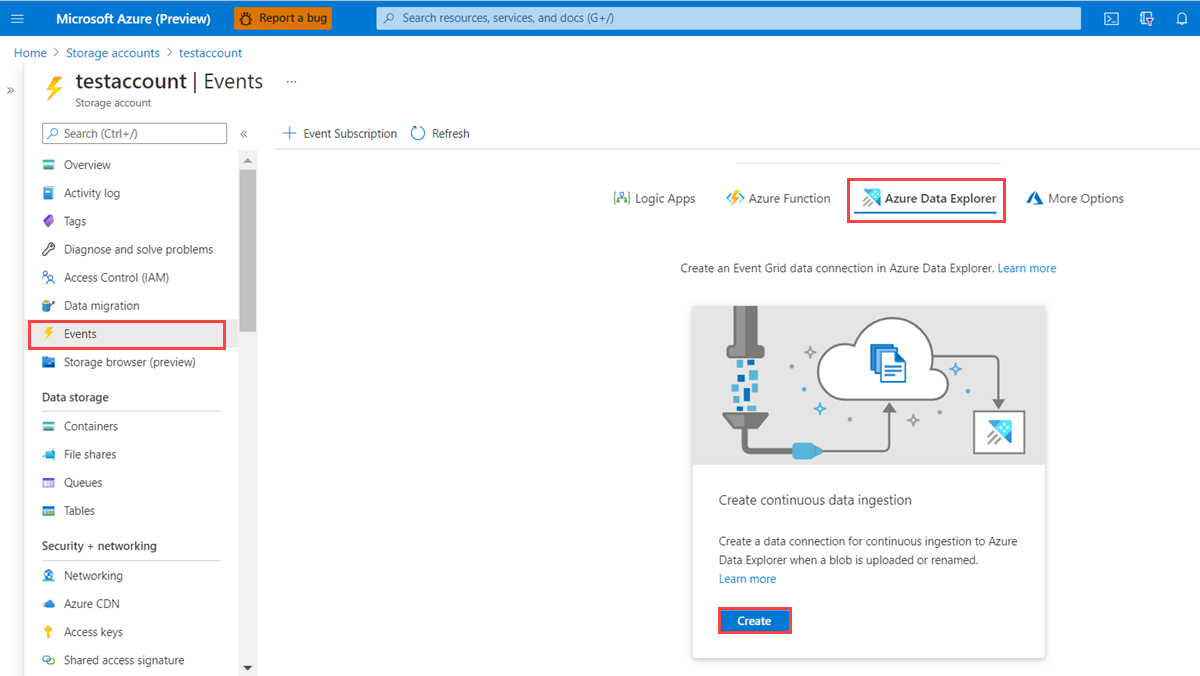
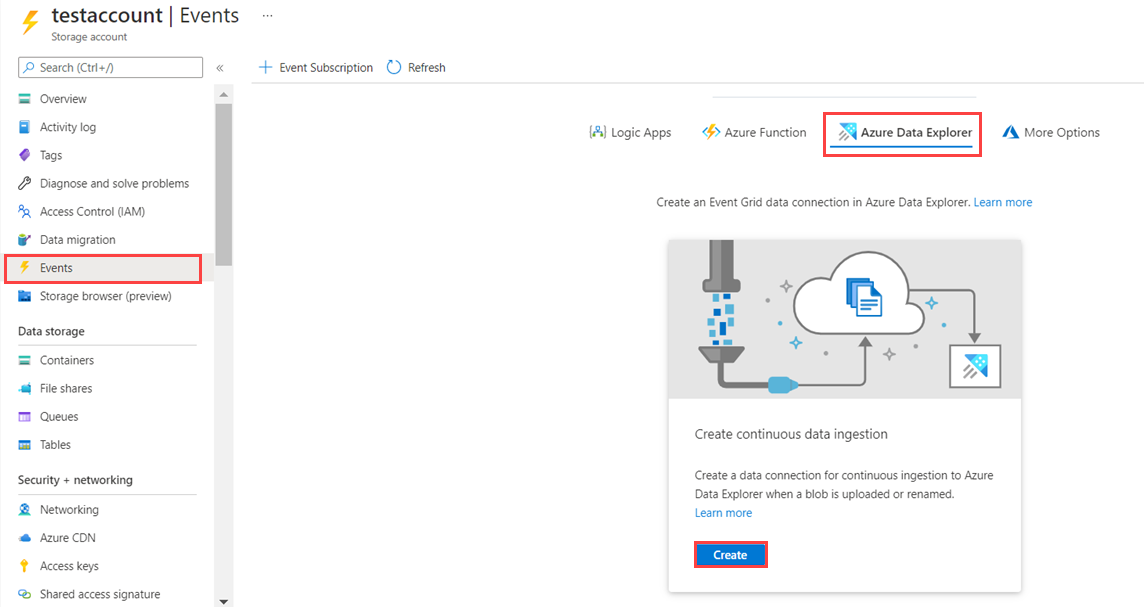
change tab order

diff --git a/data-explorer/ingest-data-event-grid.md b/data-explorer/ingest-data-event-grid.md
@@ -6,7 +6,7 @@ ms.author: orspodek
 ms.reviewer: tzgitlin
 ms.service: data-explorer
 ms.topic: how-to
-ms.date: 10/13/2021
+ms.date: 01/13/2022
 
 # Customer intent: As a database administrator, I want Azure Data Explorer to track my blob storage and ingest new blobs.
 ---
@@ -39,7 +39,7 @@ Create a table in Azure Data Explorer where Event Hubs will send data. Create th
 
 1. In the Azure portal, under your cluster, select **Query**.
 
-    :::image type="content" source="media/ingest-data-event-grid/query-explorer-link.png" alt-text="Link to Query explorer."::: 
+    :::image type="content" source="media/ingest-data-event-grid/azure-portal.png" alt-text="Screenshot of the Query option in the Azure Portal"::: 
 
 1. Copy the following command into the window and select **Run** to create the table (TestTable) that will receive the ingested data.
 
@@ -58,57 +58,6 @@ Create a table in Azure Data Explorer where Event Hubs will send data. Create th
 ## Create an Event Grid data connection
 
 Now connect the storage account to Azure Data Explorer, so that data flowing into the storage is streamed to the test table. This connection can be created in the Azure portal under the storage account itself, or in the Azure portal under Azure Data Explorer.
-
-### [Azure portal - Storage](#tab/portal-1)
-
-1. Browse to the storage account in the Azure portal. On the left menu, select **Events**
-1. In the main pane, select the **Azure Data Explorer** tab.
-
-    :::image type="content" source="media/ingest-data-event-grid/storage-account.png" alt-text="Screenshot of Azure portal storage account access to Event Grid connection.":::
-
-1. The **Data connection** pane opens with the **Basics** tab selected. 
-
-#### Data connection- Basics tab
-
-1. Fill out the form with the following information:
-
-    :::image type="content" source="media/ingest-data-event-grid/portal-basics-tab.png" alt-text="Screenshot of basics tab for Event Grid ingestion in storage account of Azure portal.":::
-
-    |**Setting** | **Suggested value** | **Field description**|
-    |---|---|---|
-    | Data connection name | *test-grid-connection* | The name of the connection that you want to create in Azure Data Explorer.|
-    | Storage account | *gridteststorage1* | The storage account from which you accessed this wizard. Autopopulated.|
-    | Event type | *Blob created* or *Blob renamed* | The type of event that triggers ingestion. *Blob renamed* is supported only for ADLSv2 storage. Supported types are: Microsoft.Storage.BlobCreated or Microsoft.Storage.BlobRenamed. |
-    | Resources creation | *Automatic* | Define whether you want Azure Data Explorer to create an Event Grid Subscription, an Event Hub namespace, and an Event Hub for you. To create resources manually, see [Manually create resources for Event Grid ingestion](ingest-data-event-grid-manual.md)|
-
-1. Select **Next> Ingestion properties**.
-
-#### Data connection - Ingestion properties tab
-
-1. Fill out the form with the following information. Table and mapping names are case-sensitive:
-
-    :::image type="content" source="media/ingest-data-event-grid/portal-ingestion-tab.png" alt-text="Screenshot of Ingest properties tab for Event Grid ingestion in storage account of Azure portal.":::
-
-     **Setting** | **Suggested value** | **Field description**
-    |---|---|---|
-    | Subscription |  | Your Azure Data Explorer subscription. 
-    | Cluster Name | *TestCluster* | The name of the cluster in which you want to ingest data.
-    | Database Name | *TestDatabase* | The target database you created in **TestCluster**.
-    | Table name | *TestTable* | The target table you created in **TestDatabase**. |
-    | Data format | *JSON* | Supported formats are Avro, CSV, JSON, MULTILINE JSON, ORC, PARQUET, PSV, SCSV, SOHSV, TSV, TXT, TSVE, APACHEAVRO, RAW, and W3CLOG. Supported compression options are Zip and Gzip. |
-    | Mapping | *TestMapping* | The mapping you created in **TestDatabase**, which maps incoming JSON data to the column names and data types of **TestTable**.|
-    | Advanced settings | *My data has headers* | Ignores headers. Supported for *SV type files.|
-
-   > [!NOTE]
-   > You don't have to specify all **Default routing settings**. Partial settings are also accepted.
-
-1. Select **Next: Review + Create**
-
-#### Data connection - Review + Create tab
-
-1. Review the resources that were auto created for you and select **Create**.
-
-    :::image type="content" source="media/ingest-data-event-grid/portal-review-create.png" alt-text="Screenshot of review and create tab for Event Grid ingestion in storage account of Azure portal.":::
 
 ### [Azure portal - Azure Data Explorer](#tab/adx)
 
@@ -173,6 +122,56 @@ Now connect the storage account to Azure Data Explorer, so that data flowing int
 
     :::image type="content" source="media/ingest-data-event-grid/create-event-grid-data-connection-review-create.png" alt-text="Review and create data connection for event grid.":::
 
+### [Azure portal - Storage](#tab/portal-1)
+
+1. Browse to the storage account in the Azure portal. On the left menu, select **Events**
+1. In the main pane, select the **Azure Data Explorer** tab.
+
+    :::image type="content" source="media/ingest-data-event-grid/storage-account.png" alt-text="Screenshot of Azure portal storage account access to Event Grid connection.":::
+
+1. The **Data connection** pane opens with the **Basics** tab selected. 
+
+#### Data connection- Basics tab
+
+1. Fill out the form with the following information:
+
+    :::image type="content" source="media/ingest-data-event-grid/portal-basics-tab.png" alt-text="Screenshot of basics tab for Event Grid ingestion in storage account of Azure portal.":::
+
+    |**Setting** | **Suggested value** | **Field description**|
+    |---|---|---|
+    | Data connection name | *test-grid-connection* | The name of the connection that you want to create in Azure Data Explorer.|
+    | Storage account | *gridteststorage1* | The storage account from which you accessed this wizard. Autopopulated.|
+    | Event type | *Blob created* or *Blob renamed* | The type of event that triggers ingestion. *Blob renamed* is supported only for ADLSv2 storage. Supported types are: Microsoft.Storage.BlobCreated or Microsoft.Storage.BlobRenamed. |
+    | Resources creation | *Automatic* | Define whether you want Azure Data Explorer to create an Event Grid Subscription, an Event Hub namespace, and an Event Hub for you. To create resources manually, see [Manually create resources for Event Grid ingestion](ingest-data-event-grid-manual.md)|
+
+1. Select **Next> Ingestion properties**.
+
+#### Data connection - Ingestion properties tab
+
+1. Fill out the form with the following information. Table and mapping names are case-sensitive:
+
+    :::image type="content" source="media/ingest-data-event-grid/portal-ingestion-tab.png" alt-text="Screenshot of Ingest properties tab for Event Grid ingestion in storage account of Azure portal.":::
+
+     **Setting** | **Suggested value** | **Field description**
+    |---|---|---|
+    | Subscription |  | Your Azure Data Explorer subscription. 
+    | Cluster Name | *TestCluster* | The name of the cluster in which you want to ingest data.
+    | Database Name | *TestDatabase* | The target database you created in **TestCluster**.
+    | Table name | *TestTable* | The target table you created in **TestDatabase**. |
+    | Data format | *JSON* | Supported formats are Avro, CSV, JSON, MULTILINE JSON, ORC, PARQUET, PSV, SCSV, SOHSV, TSV, TXT, TSVE, APACHEAVRO, RAW, and W3CLOG. Supported compression options are Zip and Gzip. |
+    | Mapping | *TestMapping* | The mapping you created in **TestDatabase**, which maps incoming JSON data to the column names and data types of **TestTable**.|
+    | Advanced settings | *My data has headers* | Ignores headers. Supported for *SV type files.|
+
+   > [!NOTE]
+   > You don't have to specify all **Default routing settings**. Partial settings are also accepted.
+
+1. Select **Next: Review + Create**
+
+#### Data connection - Review + Create tab
+
+1. Review the resources that were auto created for you and select **Create**.
+
+    :::image type="content" source="media/ingest-data-event-grid/portal-review-create.png" alt-text="Screenshot of review and create tab for Event Grid ingestion in storage account of Azure portal.":::
 ---
 
 ### Deployment
